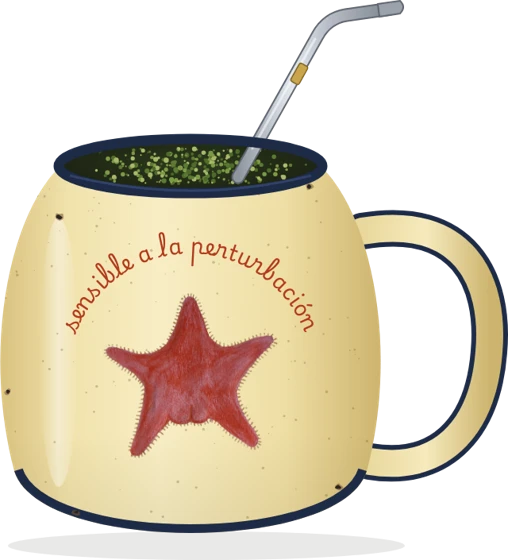
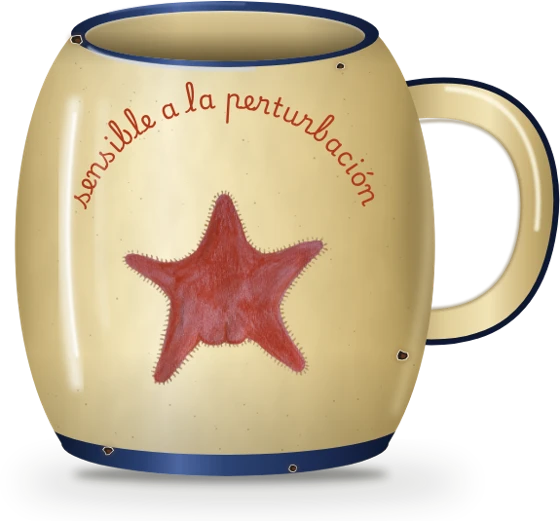
Fondo: mate más realista, sin bombilla ni yerba
Esmalte con volumen, reflejos y textura, labio y base azules,
saltaduras con óxido y sombra de contacto, sin contornos.

Claude-Session: https://claude.ai/code/session_01Qm5YFXMrmpHggq2K32ktW1

diff --git a/fondo/assets/mate-svg.html b/fondo/assets/mate-svg.html
@@ -1,86 +1,124 @@
-<svg class="zoom-svg mate-svg" viewBox="0 0 800 760" preserveAspectRatio="xMidYMid meet" xmlns="http://www.w3.org/2000/svg" aria-hidden="true">
-
+<svg class="zoom-svg mate-svg" viewBox="0 0 620 560" preserveAspectRatio="xMidYMid meet" xmlns="http://www.w3.org/2000/svg" aria-hidden="true">
 <defs>
-  <!-- Esmalte crema: más oscuro hacia los bordes, como un jarro redondo -->
-  <linearGradient id="mate-enamel" x1="0" x2="1" y1="0" y2="0">
-    <stop offset="0" stop-color="#D9C27F" />
-    <stop offset="0.18" stop-color="#F1E2AC" />
-    <stop offset="0.42" stop-color="#F8EDC4" />
-    <stop offset="0.75" stop-color="#EEDDA3" />
-    <stop offset="1" stop-color="#CDB46E" />
+  <!-- Esmalte crema: volumen de jarro redondo, luz desde arriba a la izquierda -->
+  <linearGradient id="m-body" gradientUnits="userSpaceOnUse" x1="144" x2="576" y1="0" y2="0">
+    <stop offset="0" stop-color="#A8925A"/>
+    <stop offset="0.05" stop-color="#C7B077"/>
+    <stop offset="0.16" stop-color="#E4D29E"/>
+    <stop offset="0.28" stop-color="#F3E6BC"/>
+    <stop offset="0.36" stop-color="#F9F0D3"/>
+    <stop offset="0.48" stop-color="#F2E4B8"/>
+    <stop offset="0.68" stop-color="#E3CF98"/>
+    <stop offset="0.84" stop-color="#CBB276"/>
+    <stop offset="0.94" stop-color="#B49B5F"/>
+    <stop offset="1" stop-color="#C2AA74"/>
   </linearGradient>
-  <linearGradient id="mate-base-shade" x1="0" x2="0" y1="0" y2="1">
-    <stop offset="0.6" stop-color="#6B5A2A" stop-opacity="0" />
-    <stop offset="1" stop-color="#6B5A2A" stop-opacity="0.22" />
+  <linearGradient id="m-vert" gradientUnits="userSpaceOnUse" x1="0" x2="0" y1="210" y2="664">
+    <stop offset="0" stop-color="#3B2E14" stop-opacity="0.30"/>
+    <stop offset="0.07" stop-color="#3B2E14" stop-opacity="0.06"/>
+    <stop offset="0.2" stop-color="#3B2E14" stop-opacity="0"/>
+    <stop offset="0.72" stop-color="#3B2E14" stop-opacity="0"/>
+    <stop offset="1" stop-color="#3B2E14" stop-opacity="0.32"/>
   </linearGradient>
-  <linearGradient id="mate-shine" x1="0" x2="1">
-    <stop offset="0" stop-color="#FFFFFF" stop-opacity="0" />
-    <stop offset="0.5" stop-color="#FFFFFF" stop-opacity="0.55" />
-    <stop offset="1" stop-color="#FFFFFF" stop-opacity="0" />
+  <linearGradient id="m-blue" gradientUnits="userSpaceOnUse" x1="192" x2="528" y1="0" y2="0">
+    <stop offset="0" stop-color="#0E1A33"/>
+    <stop offset="0.25" stop-color="#2A4072"/>
+    <stop offset="0.36" stop-color="#4C66A0"/>
+    <stop offset="0.5" stop-color="#2C4374"/>
+    <stop offset="0.85" stop-color="#18264A"/>
+    <stop offset="1" stop-color="#0D1730"/>
   </linearGradient>
-  <linearGradient id="mate-handle" x1="0" x2="1">
-    <stop offset="0" stop-color="#E9D79B" />
-    <stop offset="0.5" stop-color="#F6EABD" />
-    <stop offset="1" stop-color="#CDB46E" />
+  <linearGradient id="m-inside" gradientUnits="userSpaceOnUse" x1="0" x2="0" y1="176" y2="244">
+    <stop offset="0" stop-color="#E6D6A6"/>
+    <stop offset="0.45" stop-color="#CDB884"/>
+    <stop offset="0.8" stop-color="#7D6B43"/>
+    <stop offset="1" stop-color="#4E4229"/>
   </linearGradient>
-  <linearGradient id="mate-metal" x1="0" x2="1">
-    <stop offset="0" stop-color="#8E959F" />
-    <stop offset="0.35" stop-color="#E4E8EE" />
-    <stop offset="0.6" stop-color="#B6BCC6" />
-    <stop offset="1" stop-color="#7E858F" />
+  <linearGradient id="m-inside-side" gradientUnits="userSpaceOnUse" x1="202" x2="518" y1="0" y2="0">
+    <stop offset="0" stop-color="#2E2412" stop-opacity="0.35"/>
+    <stop offset="0.35" stop-color="#2E2412" stop-opacity="0"/>
+    <stop offset="0.75" stop-color="#2E2412" stop-opacity="0.05"/>
+    <stop offset="1" stop-color="#2E2412" stop-opacity="0.4"/>
   </linearGradient>
-  <radialGradient id="mate-mouth" cx="0.5" cy="0.45" r="0.6">
-    <stop offset="0" stop-color="#2E3A1C" />
-    <stop offset="1" stop-color="#1A1F12" />
-  </radialGradient>
-  <clipPath id="mate-body-clip"><path d="M 216 236 C 150 300 118 470 158 620 C 190 724 570 724 602 620 C 642 470 610 300 544 236 Z" /></clipPath>
-  <path id="mate-arc" d="M 226 500 A 154 154 0 1 1 534 500" />
+  <linearGradient id="m-handle" gradientUnits="userSpaceOnUse" x1="528" x2="698" y1="0" y2="0">
+    <stop offset="0" stop-color="#9E8752"/>
+    <stop offset="0.35" stop-color="#E2CF9A"/>
+    <stop offset="0.6" stop-color="#F1E3B6"/>
+    <stop offset="0.85" stop-color="#C9B075"/>
+    <stop offset="1" stop-color="#A68F58"/>
+  </linearGradient>
+  <filter id="m-soft" x="-50%" y="-50%" width="200%" height="200%"><feGaussianBlur stdDeviation="1.2"/></filter>
+  <filter id="m-blur4" x="-50%" y="-50%" width="200%" height="200%"><feGaussianBlur stdDeviation="4"/></filter>
+  <filter id="m-blur10" x="-50%" y="-50%" width="200%" height="200%"><feGaussianBlur stdDeviation="10"/></filter>
+  <filter id="m-blur18" x="-50%" y="-50%" width="200%" height="200%"><feGaussianBlur stdDeviation="18"/></filter>
+  <!-- Textura muy sutil del esmalte (ondulado y poros) -->
+  <filter id="m-grain" x="0" y="0" width="100%" height="100%">
+    <feTurbulence type="fractalNoise" baseFrequency="0.035 0.02" numOctaves="3" seed="4" result="n"/>
+    <feColorMatrix in="n" type="matrix" values="0 0 0 0 0.25  0 0 0 0 0.19  0 0 0 0 0.08  0 0 0 0.55 -0.2"/>
+  </filter>
+  <clipPath id="m-body-clip"><path d="M 204 210 C 132 290 122 520 192 630 A 168 34 0 0 0 528 630 C 598 520 588 290 516 210 Z"/></clipPath>
+  <path id="mate-arc" d="M 214 470 A 150 150 0 1 1 506 470"/>
 </defs>
+<g transform="translate(-110 -150)">
 
-<!-- Sombra en la mesa -->
-<ellipse cx="400" cy="714" rx="250" ry="18" fill="#2A2622" opacity="0.10" />
+<!-- Sombra de contacto sobre la mesa -->
+<ellipse cx="378" cy="670" rx="228" ry="22" fill="#1E1A14" opacity="0.16" filter="url(#m-blur18)"/>
+<ellipse cx="366" cy="662" rx="162" ry="9" fill="#1E1A14" opacity="0.45" filter="url(#m-blur4)"/>
 
-<!-- Asa: esmalte crema con borde azul, como el jarro -->
-<path d="M 596 318 C 724 296 764 380 756 470 C 748 572 690 622 606 608" fill="none" stroke="#1E2B47" stroke-width="46" stroke-linecap="round" />
-<path d="M 596 318 C 724 296 764 380 756 470 C 748 572 690 622 606 608" fill="none" stroke="url(#mate-handle)" stroke-width="34" stroke-linecap="round" />
+<!-- Asa -->
+<g>
+  <path d="M 542 262 C 676 236 710 330 698 410 C 686 492 640 538 538 524
+           L 542 492 C 620 500 654 466 662 408 C 670 346 648 284 546 298 Z" fill="url(#m-handle)"/>
+  <!-- reflejo a lo largo del asa -->
+  <path d="M 588 266 C 666 270 688 340 680 410" fill="none" stroke="#FFFBEA" stroke-opacity="0.8" stroke-width="5" stroke-linecap="round" filter="url(#m-soft)"/>
+  <!-- borde interno en sombra -->
+  <path d="M 558 300 C 648 288 670 346 662 408 C 654 466 620 498 552 492" fill="none" stroke="#6E5C34" stroke-opacity="0.45" stroke-width="4" filter="url(#m-soft)"/>
+  <!-- borde azul del asa -->
+  <path d="M 542 262 C 676 236 710 330 698 410 C 686 492 640 538 538 524" fill="none" stroke="url(#m-blue)" stroke-width="6"/>
+</g>
 
 <!-- Cuerpo -->
-<path d="M 216 236 C 150 300 118 470 158 620 C 190 724 570 724 602 620 C 642 470 610 300 544 236 Z" fill="url(#mate-enamel)" />
-<g clip-path="url(#mate-body-clip)">
-  <rect x="120" y="200" width="520" height="620" fill="url(#mate-base-shade)" />
-  <!-- brillo del esmalte -->
-  <ellipse cx="214" cy="470" rx="24" ry="170" fill="url(#mate-shine)" opacity="0.8" />
-  <g fill="#7A6A3A" opacity="0.35"><circle cx="397" cy="249" r="1.1"/><circle cx="223.4" cy="241.9" r="1.6"/><circle cx="217.9" cy="467.3" r="1.5"/><circle cx="413.8" cy="396.5" r="1.2"/><circle cx="413.3" cy="616.5" r="0.7"/><circle cx="415.8" cy="359.3" r="0.9"/><circle cx="523.9" cy="483.7" r="1.3"/><circle cx="517.6" cy="678" r="1.1"/><circle cx="442.4" cy="482.7" r="1.2"/><circle cx="483.3" cy="457.1" r="1.2"/><circle cx="373.8" cy="691.9" r="1.4"/><circle cx="577" cy="692.2" r="0.9"/><circle cx="415.4" cy="692.8" r="1.6"/><circle cx="199.9" cy="298.4" r="1.1"/><circle cx="167" cy="355.5" r="0.7"/><circle cx="471.4" cy="616.3" r="1.7"/><circle cx="208.8" cy="583.7" r="1.4"/><circle cx="202.9" cy="663.8" r="1.8"/><circle cx="242" cy="697.2" r="1.1"/><circle cx="378.5" cy="715.1" r="1.6"/><circle cx="212.3" cy="447.1" r="1.2"/><circle cx="302.9" cy="334" r="1"/><circle cx="498.3" cy="249.4" r="1.3"/><circle cx="354.6" cy="248.7" r="1"/><circle cx="448.2" cy="485.9" r="0.7"/><circle cx="632.4" cy="618.4" r="1.8"/><circle cx="183.4" cy="367.5" r="0.6"/><circle cx="527.3" cy="369.8" r="0.8"/><circle cx="345.3" cy="677.5" r="1.6"/><circle cx="261.9" cy="311.7" r="1.7"/><circle cx="421" cy="576.2" r="0.7"/><circle cx="159.3" cy="570.3" r="1.1"/><circle cx="166.9" cy="690.4" r="1.4"/><circle cx="538.8" cy="280.2" r="1.6"/><circle cx="164" cy="654.1" r="1.1"/><circle cx="303" cy="505.5" r="1.7"/><circle cx="266.6" cy="302" r="1.2"/><circle cx="251.6" cy="292.5" r="0.8"/><circle cx="155.7" cy="336.8" r="1"/><circle cx="285.6" cy="604.6" r="0.9"/><circle cx="385" cy="325.4" r="1"/><circle cx="139.3" cy="360.2" r="0.6"/><circle cx="503.9" cy="504.5" r="0.8"/><circle cx="372.1" cy="688.6" r="0.7"/><circle cx="547.6" cy="447.4" r="1.2"/><circle cx="555.7" cy="428.7" r="1.2"/><circle cx="480.7" cy="711.6" r="1"/><circle cx="554.5" cy="579.2" r="1.4"/><circle cx="336.4" cy="406.8" r="0.7"/><circle cx="196.2" cy="273.9" r="1.5"/><circle cx="260.4" cy="318.4" r="0.7"/><circle cx="559" cy="657.9" r="1.4"/><circle cx="273.8" cy="356.3" r="1"/><circle cx="364.3" cy="315.6" r="1.1"/><circle cx="264.3" cy="701.7" r="1.8"/><circle cx="409" cy="357.3" r="1.8"/><circle cx="287.9" cy="411.2" r="0.6"/><circle cx="324.6" cy="467.8" r="1.2"/><circle cx="232.5" cy="482.3" r="0.6"/><circle cx="264.7" cy="283.1" r="1.1"/><circle cx="151.3" cy="250.8" r="1"/><circle cx="248.7" cy="521.1" r="1.2"/><circle cx="512.8" cy="555.6" r="1.5"/><circle cx="578.3" cy="427" r="1"/><circle cx="632.2" cy="311.7" r="1.5"/><circle cx="458" cy="261" r="1.6"/><circle cx="584.9" cy="541.1" r="1.5"/><circle cx="544.2" cy="306.9" r="1.2"/><circle cx="387.2" cy="640.8" r="1.6"/><circle cx="551.5" cy="520.3" r="1.7"/><circle cx="478.3" cy="572.8" r="0.9"/><circle cx="145.9" cy="303.9" r="1"/><circle cx="183.5" cy="641.2" r="1.3"/><circle cx="450.2" cy="540.6" r="1.4"/><circle cx="379.5" cy="241.6" r="1.6"/><circle cx="511.6" cy="481.4" r="1.2"/><circle cx="466.2" cy="271.7" r="1.5"/><circle cx="258.6" cy="275.7" r="0.9"/><circle cx="502" cy="338.5" r="1.5"/><circle cx="627.6" cy="477.1" r="1.1"/><circle cx="374.3" cy="568.2" r="1.5"/><circle cx="444.7" cy="548.5" r="0.7"/><circle cx="205.2" cy="361.9" r="1.5"/><circle cx="285.3" cy="512.5" r="0.6"/><circle cx="160.9" cy="369" r="1.4"/><circle cx="483" cy="564.3" r="0.9"/><circle cx="393.4" cy="463" r="1.2"/><circle cx="190.4" cy="669" r="0.8"/><circle cx="628.8" cy="689.4" r="0.6"/><circle cx="364.1" cy="633.6" r="1.8"/><circle cx="359.2" cy="369" r="0.9"/><circle cx="612.2" cy="341.1" r="1.3"/><circle cx="202.3" cy="491.6" r="1.7"/><circle cx="197.6" cy="633.7" r="1.2"/><circle cx="582.3" cy="577.6" r="0.9"/><circle cx="587.8" cy="473.3" r="0.6"/><circle cx="131.8" cy="476" r="1.1"/><circle cx="284" cy="307.5" r="1"/><circle cx="291.2" cy="643.3" r="0.6"/><circle cx="512.9" cy="642.8" r="0.7"/><circle cx="602.5" cy="582.3" r="1.7"/><circle cx="277.8" cy="418.7" r="1.1"/><circle cx="639.4" cy="522.8" r="1"/><circle cx="348.3" cy="372.1" r="0.7"/><circle cx="181.9" cy="640.6" r="0.9"/><circle cx="607.2" cy="359.7" r="0.9"/><circle cx="390.6" cy="331.1" r="1"/><circle cx="617.6" cy="664.4" r="1.6"/><circle cx="451.8" cy="678.4" r="1.7"/><circle cx="410.1" cy="585.4" r="0.7"/><circle cx="503.5" cy="456.4" r="1.5"/><circle cx="458.7" cy="377.4" r="0.7"/><circle cx="602.7" cy="301.1" r="1.2"/><circle cx="305.3" cy="382.9" r="1.5"/><circle cx="627.9" cy="364.9" r="1.4"/><circle cx="283.4" cy="507.5" r="1.1"/><circle cx="215.3" cy="317.6" r="0.8"/><circle cx="592" cy="478.6" r="0.9"/><circle cx="592.2" cy="718.3" r="1.1"/><circle cx="201.2" cy="332.4" r="0.7"/><circle cx="304.4" cy="283.7" r="0.9"/><circle cx="261.8" cy="513.4" r="1.7"/><circle cx="512.3" cy="438.1" r="1.1"/><circle cx="397.3" cy="420.9" r="1"/><circle cx="161.7" cy="373.2" r="1.8"/><circle cx="194.2" cy="481.6" r="1.4"/><circle cx="570.1" cy="343.7" r="0.9"/><circle cx="256.7" cy="431.9" r="1.1"/><circle cx="616.5" cy="647.4" r="1.6"/><circle cx="141.1" cy="255.5" r="1.5"/><circle cx="586.8" cy="467.2" r="1.3"/><circle cx="130.1" cy="427.9" r="1.7"/><circle cx="551.1" cy="650.6" r="1.8"/><circle cx="256.7" cy="292.3" r="0.8"/><circle cx="396.4" cy="567.4" r="1.7"/><circle cx="498.1" cy="550.7" r="1.5"/><circle cx="363.2" cy="504.7" r="0.6"/><circle cx="529" cy="351.6" r="1.7"/><circle cx="459.2" cy="385.8" r="0.8"/><circle cx="258.4" cy="545.4" r="1.4"/><circle cx="187.2" cy="273.8" r="1.2"/><circle cx="427.3" cy="426.3" r="0.9"/><circle cx="436.5" cy="245" r="1"/><circle cx="365" cy="700.3" r="1.4"/><circle cx="580.7" cy="468.1" r="0.9"/><circle cx="256" cy="701.1" r="1.4"/><circle cx="286.8" cy="250.5" r="1.2"/><circle cx="474" cy="441.6" r="0.9"/><circle cx="470.4" cy="684.1" r="0.9"/><circle cx="147.4" cy="402.3" r="1.1"/><circle cx="478.1" cy="335.1" r="1.6"/><circle cx="507" cy="482.3" r="0.8"/><circle cx="624.6" cy="389.6" r="1.6"/><circle cx="247.7" cy="346.3" r="1.5"/><circle cx="280.4" cy="696.9" r="1.2"/><circle cx="225.5" cy="347.2" r="1.1"/><circle cx="469.3" cy="695.4" r="0.8"/><circle cx="330.7" cy="342.2" r="1.8"/><circle cx="202.4" cy="264.9" r="0.7"/><circle cx="330.6" cy="671.1" r="1.7"/></g>
+<path d="M 204 210 C 132 290 122 520 192 630 A 168 34 0 0 0 528 630 C 598 520 588 290 516 210 Z" fill="url(#m-body)"/>
+<g clip-path="url(#m-body-clip)">
+  <rect x="100" y="150" width="560" height="560" filter="url(#m-grain)" opacity="0.28"/>
+  <rect x="100" y="150" width="560" height="560" fill="url(#m-vert)"/>
+  <!-- sombra que deja el asa sobre el cuerpo -->
+  <ellipse cx="568" cy="395" rx="26" ry="150" fill="#3B2E14" opacity="0.22" filter="url(#m-blur10)"/>
+  <!-- pintitas del esmalte -->
+  <g fill="#5A4A2A" opacity="0.28"><circle cx="289.5" cy="279.1" r="0.9"/><circle cx="189.0" cy="442.7" r="0.7"/><circle cx="183.2" cy="430.7" r="0.4"/><circle cx="333.5" cy="244.7" r="0.5"/><circle cx="329.8" cy="566.4" r="0.5"/><circle cx="249.3" cy="481.7" r="1.1"/><circle cx="390.8" cy="383.6" r="1.1"/><circle cx="178.6" cy="579.8" r="0.6"/><circle cx="217.7" cy="265.1" r="0.6"/><circle cx="486.5" cy="291.8" r="0.8"/><circle cx="415.6" cy="373.3" r="0.8"/><circle cx="185.1" cy="240.3" r="0.5"/><circle cx="432.2" cy="396.7" r="0.6"/><circle cx="394.2" cy="407.6" r="0.6"/><circle cx="477.8" cy="512.1" r="0.6"/><circle cx="389.8" cy="438.2" r="1.0"/><circle cx="451.8" cy="337.4" r="1.1"/><circle cx="207.2" cy="392.7" r="0.9"/><circle cx="220.8" cy="422.8" r="0.4"/><circle cx="427.3" cy="539.9" r="0.8"/><circle cx="510.2" cy="348.3" r="0.9"/><circle cx="397.7" cy="461.5" r="0.7"/><circle cx="496.0" cy="616.5" r="0.7"/><circle cx="425.7" cy="240.8" r="0.9"/><circle cx="418.9" cy="637.1" r="1.0"/><circle cx="273.8" cy="379.0" r="0.9"/><circle cx="169.0" cy="411.2" r="0.5"/><circle cx="206.8" cy="240.1" r="0.9"/><circle cx="211.7" cy="320.2" r="0.7"/><circle cx="508.6" cy="249.2" r="0.7"/><circle cx="379.8" cy="590.4" r="1.0"/><circle cx="505.6" cy="333.3" r="0.7"/><circle cx="303.5" cy="590.8" r="1.1"/><circle cx="220.4" cy="289.9" r="0.6"/><circle cx="253.3" cy="421.1" r="0.8"/><circle cx="265.1" cy="216.7" r="0.7"/><circle cx="307.7" cy="455.7" r="1.1"/><circle cx="436.2" cy="434.1" r="0.8"/><circle cx="430.5" cy="237.9" r="1.0"/><circle cx="472.0" cy="586.7" r="1.0"/><circle cx="317.0" cy="384.6" r="0.5"/><circle cx="413.7" cy="241.5" r="0.4"/><circle cx="243.5" cy="284.0" r="0.6"/><circle cx="181.0" cy="215.1" r="0.5"/><circle cx="200.6" cy="369.5" r="0.4"/><circle cx="509.7" cy="476.0" r="0.5"/><circle cx="260.9" cy="362.6" r="0.7"/><circle cx="209.1" cy="575.8" r="1.1"/><circle cx="346.4" cy="420.6" r="0.5"/><circle cx="200.9" cy="360.6" r="0.6"/><circle cx="491.5" cy="283.6" r="0.4"/><circle cx="540.4" cy="439.5" r="0.5"/><circle cx="377.3" cy="226.5" r="0.8"/><circle cx="551.4" cy="581.9" r="0.9"/><circle cx="264.4" cy="370.8" r="0.5"/><circle cx="468.8" cy="441.4" r="0.9"/><circle cx="291.9" cy="309.8" r="1.0"/><circle cx="554.0" cy="577.4" r="1.0"/><circle cx="487.3" cy="529.4" r="0.6"/><circle cx="367.1" cy="366.1" r="0.4"/><circle cx="171.2" cy="333.8" r="0.6"/><circle cx="437.0" cy="621.5" r="0.7"/><circle cx="534.8" cy="634.9" r="1.1"/><circle cx="305.9" cy="308.7" r="0.6"/><circle cx="238.7" cy="301.9" r="0.8"/><circle cx="520.1" cy="572.2" r="0.7"/><circle cx="421.2" cy="554.8" r="0.5"/><circle cx="424.2" cy="601.7" r="0.9"/><circle cx="460.1" cy="418.2" r="0.5"/><circle cx="475.7" cy="356.3" r="1.0"/><circle cx="548.7" cy="383.2" r="0.7"/><circle cx="538.7" cy="523.0" r="0.5"/><circle cx="210.8" cy="279.2" r="1.0"/><circle cx="482.6" cy="277.1" r="1.0"/><circle cx="552.1" cy="494.3" r="0.6"/><circle cx="379.5" cy="270.7" r="0.4"/><circle cx="548.4" cy="491.1" r="0.8"/><circle cx="533.4" cy="399.4" r="1.0"/><circle cx="490.5" cy="304.7" r="0.6"/><circle cx="277.2" cy="317.2" r="0.8"/><circle cx="263.7" cy="393.1" r="0.5"/><circle cx="524.0" cy="365.4" r="0.7"/><circle cx="393.3" cy="599.3" r="0.7"/><circle cx="527.1" cy="428.2" r="0.8"/><circle cx="369.4" cy="222.9" r="0.7"/><circle cx="233.2" cy="216.7" r="1.0"/><circle cx="228.9" cy="416.2" r="0.9"/><circle cx="382.6" cy="353.5" r="0.8"/><circle cx="382.2" cy="548.3" r="0.5"/><circle cx="384.1" cy="320.6" r="0.6"/><circle cx="468.9" cy="430.8" r="0.8"/><circle cx="464.0" cy="602.8" r="0.7"/><circle cx="405.0" cy="429.9" r="0.8"/><circle cx="437.1" cy="407.2" r="0.8"/><circle cx="351.2" cy="615.1" r="0.9"/><circle cx="510.6" cy="615.4" r="0.6"/><circle cx="383.8" cy="615.9" r="1.0"/><circle cx="214.9" cy="266.7" r="0.7"/><circle cx="189.0" cy="317.3" r="0.5"/><circle cx="427.8" cy="548.2" r="1.0"/><circle cx="221.8" cy="519.4" r="0.9"/><circle cx="217.2" cy="590.2" r="1.1"/><circle cx="247.8" cy="619.8" r="0.7"/><circle cx="354.9" cy="635.7" r="1.0"/><circle cx="224.6" cy="398.4" r="0.8"/><circle cx="295.6" cy="298.2" r="0.6"/><circle cx="448.9" cy="223.3" r="0.8"/><circle cx="336.2" cy="222.7" r="0.6"/><circle cx="409.6" cy="432.7" r="0.4"/><circle cx="554.0" cy="550.1" r="1.1"/><circle cx="201.9" cy="327.9" r="0.4"/><circle cx="471.6" cy="329.9" r="0.5"/><circle cx="328.9" cy="602.4" r="1.0"/><circle cx="263.4" cy="278.5" r="1.0"/><circle cx="388.2" cy="512.7" r="0.5"/><circle cx="183.0" cy="507.5" r="0.7"/><circle cx="189.0" cy="613.8" r="0.8"/><circle cx="480.7" cy="250.6" r="1.0"/><circle cx="186.6" cy="581.7" r="0.7"/><circle cx="295.7" cy="450.1" r="1.0"/><circle cx="267.1" cy="269.9" r="0.8"/><circle cx="255.4" cy="261.5" r="0.5"/><circle cx="180.2" cy="300.8" r="0.6"/><circle cx="282.0" cy="537.8" r="0.6"/><circle cx="360.0" cy="290.6" r="0.6"/><circle cx="167.3" cy="321.4" r="0.4"/><circle cx="453.2" cy="449.2" r="0.5"/><circle cx="349.9" cy="612.2" r="0.5"/><circle cx="487.6" cy="398.7" r="0.7"/><circle cx="493.8" cy="382.1" r="0.8"/><circle cx="435.1" cy="632.5" r="0.6"/><circle cx="492.9" cy="515.4" r="0.8"/><circle cx="321.9" cy="362.7" r="0.4"/><circle cx="211.9" cy="245.1" r="0.9"/><circle cx="262.2" cy="284.4" r="0.5"/><circle cx="496.5" cy="585.0" r="0.9"/><circle cx="272.8" cy="317.9" r="0.6"/><circle cx="343.8" cy="282.0" r="0.7"/><circle cx="265.3" cy="623.8" r="1.1"/><circle cx="378.8" cy="318.9" r="1.1"/></g>
+
+  <!-- Calcomanía: Patricio y la frase, bajo el vidriado -->
+  <image href="fondo/assets/patricio-estrella.webp" x="252" y="368" width="216" height="205" style="mix-blend-mode: multiply" opacity="0.96"/>
+  <text class="mate-phrase" style="mix-blend-mode: multiply"><textPath href="#mate-arc" startOffset="50%">sensible a la perturbación</textPath></text>
+
+  <!-- Banda azul de la base -->
+  <path d="M 174 606 A 186 36 0 0 0 546 606 L 640 720 L 80 720 Z" fill="url(#m-blue)"/>
+  <path d="M 196 638 A 168 34 0 0 0 330 674" fill="none" stroke="#9FB2DA" stroke-opacity="0.55" stroke-width="3" filter="url(#m-soft)"/>
+
+  <!-- Brillos del vidriado: reflejo de ventana -->
+  <path d="M 206 280 C 192 360 192 470 208 570" fill="none" stroke="#FFFFFF" stroke-opacity="0.75" stroke-width="12" stroke-linecap="round" filter="url(#m-blur4)"/>
+  <path d="M 206 292 C 196 370 196 460 208 540" fill="none" stroke="#FFFFFF" stroke-opacity="0.9" stroke-width="3.5" stroke-linecap="round" filter="url(#m-soft)"/>
+  <path d="M 236 280 C 228 350 228 440 238 510" fill="none" stroke="#FFFFFF" stroke-opacity="0.35" stroke-width="7" stroke-linecap="round" filter="url(#m-blur4)"/>
+  <!-- luz rebotada en el borde derecho -->
+  <path d="M 562 300 C 576 380 574 480 534 600" fill="none" stroke="#F4E6BE" stroke-opacity="0.5" stroke-width="6" filter="url(#m-blur4)"/>
 </g>
 
-<!-- Borde inferior azul -->
-<path d="M 158 620 C 190 724 570 724 602 620" fill="none" stroke="#1E2B47" stroke-width="22" clip-path="url(#mate-body-clip)" />
+<!-- Boca: interior esmaltado y labio azul enrollado -->
+<ellipse cx="360" cy="212" rx="144" ry="26" fill="url(#m-inside)"/>
+<ellipse cx="360" cy="212" rx="144" ry="26" fill="url(#m-inside-side)"/>
+<path d="M 216 212 A 144 26 0 0 1 504 212" fill="none" stroke="#FFFFFF" stroke-opacity="0.35" stroke-width="3" filter="url(#m-soft)"/>
+<path fill-rule="evenodd" fill="url(#m-blue)" d="
+  M 202 210 A 158 34 0 1 0 518 210 A 158 34 0 1 0 202 210 Z
+  M 216 212 A 144 26 0 1 0 504 212 A 144 26 0 1 0 216 212 Z"/>
+<!-- reflejo sobre el labio -->
+<path d="M 220 224 A 148 30 0 0 0 390 246" fill="none" stroke="#C9D6F2" stroke-opacity="0.75" stroke-width="3" stroke-linecap="round" filter="url(#m-soft)"/>
+<path d="M 242 188 A 138 26 0 0 1 380 179" fill="none" stroke="#9FB2DA" stroke-opacity="0.45" stroke-width="2" stroke-linecap="round" filter="url(#m-soft)"/>
 
-<!-- Boca: borde azul, interior oscuro y la yerba -->
-<ellipse cx="380" cy="236" rx="166" ry="34" fill="url(#mate-mouth)" />
-<g clip-path="url(#mate-mouth-clip)"><circle cx="449.7" cy="255" r="1.7" fill="#7C9A45"/><circle cx="413.1" cy="234.6" r="1.7" fill="#5C7A33"/><circle cx="481" cy="233.5" r="1.2" fill="#4E6B2A"/><circle cx="340.8" cy="256" r="1.3" fill="#7C9A45"/><circle cx="348.5" cy="227.6" r="2.8" fill="#4E6B2A"/><circle cx="287" cy="230.4" r="3" fill="#7C9A45"/><circle cx="334.5" cy="234.9" r="2.4" fill="#7C9A45"/><circle cx="461.9" cy="215.8" r="1.1" fill="#4E6B2A"/><circle cx="402.7" cy="222.6" r="1.1" fill="#A9B86A"/><circle cx="356.2" cy="256" r="1.1" fill="#A9B86A"/><circle cx="449.4" cy="245.7" r="2.3" fill="#4E6B2A"/><circle cx="311" cy="234.9" r="3.1" fill="#5C7A33"/><circle cx="463.1" cy="249.9" r="1.3" fill="#5C7A33"/><circle cx="294.8" cy="246.5" r="2.8" fill="#7C9A45"/><circle cx="398.4" cy="228.1" r="1.8" fill="#4E6B2A"/><circle cx="382.2" cy="221" r="1.9" fill="#4E6B2A"/><circle cx="375.9" cy="221.1" r="1.9" fill="#4E6B2A"/><circle cx="455.3" cy="217.7" r="1.2" fill="#5C7A33"/><circle cx="524.5" cy="221.6" r="1.3" fill="#5C7A33"/><circle cx="409.6" cy="246.9" r="2.9" fill="#4E6B2A"/><circle cx="425.5" cy="226.3" r="1.6" fill="#A9B86A"/><circle cx="411.9" cy="224.9" r="1.5" fill="#7C9A45"/><circle cx="317.5" cy="222.3" r="1.1" fill="#A9B86A"/><circle cx="485.2" cy="224.2" r="2.8" fill="#5C7A33"/><circle cx="427.1" cy="234.9" r="2.8" fill="#5C7A33"/><circle cx="405" cy="226.9" r="1.3" fill="#7C9A45"/><circle cx="407.4" cy="222.5" r="1.2" fill="#7C9A45"/><circle cx="372.2" cy="248.2" r="3.1" fill="#4E6B2A"/><circle cx="414.7" cy="229.4" r="1.1" fill="#A9B86A"/><circle cx="331.4" cy="225.2" r="2.3" fill="#7C9A45"/><circle cx="465.4" cy="232" r="1.8" fill="#A9B86A"/><circle cx="357.5" cy="235.8" r="2.1" fill="#5C7A33"/><circle cx="304.8" cy="238.2" r="2.4" fill="#4E6B2A"/><circle cx="409" cy="225.9" r="3.2" fill="#A9B86A"/><circle cx="374.4" cy="246.8" r="2.9" fill="#5C7A33"/><circle cx="356.7" cy="257.9" r="1.8" fill="#7C9A45"/><circle cx="359.1" cy="255.4" r="2" fill="#7C9A45"/><circle cx="359.3" cy="231.9" r="2.9" fill="#5C7A33"/><circle cx="409.5" cy="216.3" r="1.3" fill="#5C7A33"/><circle cx="282.7" cy="230.3" r="2.1" fill="#7C9A45"/><circle cx="361.7" cy="221.6" r="1.1" fill="#5C7A33"/><circle cx="377.4" cy="256.5" r="1.4" fill="#7C9A45"/><circle cx="401.1" cy="254.2" r="1.7" fill="#5C7A33"/><circle cx="275.3" cy="244.3" r="3" fill="#7C9A45"/><circle cx="408.5" cy="222.6" r="2" fill="#7C9A45"/><circle cx="246.8" cy="220.9" r="1.8" fill="#7C9A45"/><circle cx="315.4" cy="253.5" r="1.1" fill="#4E6B2A"/><circle cx="408.7" cy="231.2" r="2" fill="#A9B86A"/><circle cx="404.8" cy="225" r="1.9" fill="#A9B86A"/><circle cx="369.4" cy="215" r="2.4" fill="#5C7A33"/><circle cx="373" cy="241.2" r="2.8" fill="#7C9A45"/><circle cx="438.9" cy="217" r="1.8" fill="#A9B86A"/><circle cx="298.6" cy="236.4" r="1.1" fill="#7C9A45"/><circle cx="272.7" cy="248.2" r="2.1" fill="#4E6B2A"/><circle cx="451.5" cy="242.7" r="2.7" fill="#4E6B2A"/><circle cx="486.9" cy="246.2" r="2.8" fill="#7C9A45"/><circle cx="276" cy="226.7" r="2.8" fill="#7C9A45"/><circle cx="427.4" cy="223.7" r="2.8" fill="#A9B86A"/><circle cx="283.1" cy="226.1" r="2.8" fill="#7C9A45"/><circle cx="307.6" cy="235.1" r="2.3" fill="#7C9A45"/><circle cx="369.6" cy="222" r="1.4" fill="#A9B86A"/><circle cx="431" cy="221.4" r="2.7" fill="#4E6B2A"/><circle cx="397.7" cy="251.8" r="3.1" fill="#5C7A33"/><circle cx="392.6" cy="252.8" r="1.2" fill="#5C7A33"/><circle cx="423.5" cy="230.5" r="1.8" fill="#7C9A45"/><circle cx="343.3" cy="233.5" r="1.4" fill="#4E6B2A"/><circle cx="336.1" cy="227.6" r="3.1" fill="#A9B86A"/><circle cx="440.4" cy="223.8" r="1.6" fill="#5C7A33"/><circle cx="365.1" cy="216.1" r="2.1" fill="#4E6B2A"/><circle cx="372.7" cy="229.6" r="1.2" fill="#A9B86A"/><circle cx="386.6" cy="227.3" r="1.3" fill="#A9B86A"/><circle cx="405.6" cy="219.9" r="3.1" fill="#7C9A45"/><circle cx="421.8" cy="216.8" r="1.3" fill="#A9B86A"/><circle cx="364.9" cy="214.5" r="2.4" fill="#A9B86A"/><circle cx="401.6" cy="240.5" r="2.1" fill="#5C7A33"/><circle cx="308.3" cy="215.9" r="2.2" fill="#5C7A33"/><circle cx="342.4" cy="254.1" r="1.2" fill="#7C9A45"/><circle cx="332.1" cy="240.8" r="2.1" fill="#5C7A33"/><circle cx="419.3" cy="227.6" r="1.7" fill="#4E6B2A"/><circle cx="506.1" cy="235" r="2.2" fill="#5C7A33"/><circle cx="469.2" cy="234.5" r="2.6" fill="#5C7A33"/><circle cx="282.8" cy="225.5" r="2.4" fill="#4E6B2A"/><circle cx="337.3" cy="244.6" r="2.9" fill="#4E6B2A"/><circle cx="327.8" cy="233.2" r="2.7" fill="#A9B86A"/><circle cx="320.9" cy="253.3" r="1.2" fill="#4E6B2A"/><circle cx="285.8" cy="251" r="1.4" fill="#7C9A45"/><circle cx="422.2" cy="252.7" r="1.7" fill="#7C9A45"/><circle cx="346.6" cy="254.6" r="3.2" fill="#5C7A33"/><circle cx="373.9" cy="214.3" r="1.1" fill="#7C9A45"/><circle cx="391.7" cy="223.3" r="2.4" fill="#4E6B2A"/><circle cx="388.1" cy="215.4" r="1.2" fill="#7C9A45"/><circle cx="362.5" cy="215.3" r="1.1" fill="#4E6B2A"/><circle cx="430.7" cy="216.9" r="2.3" fill="#A9B86A"/><circle cx="291.9" cy="237.5" r="2.5" fill="#5C7A33"/><circle cx="326.5" cy="218.9" r="1.1" fill="#4E6B2A"/><circle cx="457.5" cy="226.6" r="1.2" fill="#4E6B2A"/><circle cx="450.4" cy="227" r="1.7" fill="#A9B86A"/><circle cx="307.2" cy="226.4" r="2.6" fill="#A9B86A"/><circle cx="488" cy="240.5" r="2" fill="#A9B86A"/><circle cx="386.2" cy="232.2" r="2" fill="#4E6B2A"/><circle cx="341.4" cy="237.7" r="1.5" fill="#4E6B2A"/><circle cx="392" cy="233.2" r="2.2" fill="#A9B86A"/><circle cx="457.8" cy="214.2" r="2.1" fill="#5C7A33"/><circle cx="433.2" cy="256.6" r="2.3" fill="#A9B86A"/><circle cx="389.3" cy="249.9" r="3.1" fill="#7C9A45"/><circle cx="379.8" cy="242" r="1.2" fill="#4E6B2A"/><circle cx="402.9" cy="231.7" r="1.9" fill="#4E6B2A"/><circle cx="361.2" cy="230.4" r="1.7" fill="#5C7A33"/><circle cx="465.2" cy="230.7" r="2.9" fill="#7C9A45"/><circle cx="427.4" cy="240.1" r="2.5" fill="#4E6B2A"/><circle cx="354" cy="220.8" r="2.9" fill="#A9B86A"/><circle cx="314.3" cy="248" r="2.3" fill="#7C9A45"/><circle cx="340.1" cy="244.6" r="2.1" fill="#A9B86A"/><circle cx="330.1" cy="251.1" r="1.3" fill="#7C9A45"/><circle cx="501.1" cy="240.5" r="1.8" fill="#7C9A45"/><circle cx="357.6" cy="256.9" r="2.6" fill="#4E6B2A"/><circle cx="298.4" cy="222.6" r="1.3" fill="#7C9A45"/><circle cx="455.8" cy="233.1" r="1.4" fill="#4E6B2A"/><circle cx="318.1" cy="234.4" r="1" fill="#5C7A33"/><circle cx="421.1" cy="241.8" r="2" fill="#7C9A45"/><circle cx="317.4" cy="214.2" r="1.5" fill="#5C7A33"/><circle cx="426.3" cy="242.5" r="2.9" fill="#7C9A45"/><circle cx="423.2" cy="234" r="1.7" fill="#4E6B2A"/><circle cx="438.3" cy="231.6" r="2.6" fill="#7C9A45"/><circle cx="331.2" cy="234" r="2.4" fill="#5C7A33"/><circle cx="384.5" cy="252.4" r="3" fill="#A9B86A"/><circle cx="432" cy="235.6" r="3.1" fill="#4E6B2A"/><circle cx="345.2" cy="245.5" r="3.1" fill="#7C9A45"/><circle cx="381.8" cy="239.3" r="2.2" fill="#5C7A33"/><circle cx="382.9" cy="250.5" r="2.1" fill="#5C7A33"/><circle cx="429.1" cy="257.6" r="1.4" fill="#4E6B2A"/><circle cx="433.9" cy="242.1" r="1.6" fill="#5C7A33"/><circle cx="376.5" cy="232.4" r="1.9" fill="#A9B86A"/><circle cx="388" cy="227.4" r="1.9" fill="#7C9A45"/><circle cx="525.3" cy="234.3" r="1.4" fill="#4E6B2A"/><circle cx="454" cy="234.6" r="2.2" fill="#7C9A45"/><circle cx="416.1" cy="243.3" r="2.8" fill="#5C7A33"/><circle cx="374.8" cy="238.1" r="1.3" fill="#5C7A33"/><circle cx="339.8" cy="225.8" r="1.8" fill="#A9B86A"/><circle cx="499.4" cy="235.2" r="2.8" fill="#A9B86A"/><circle cx="345.5" cy="228.1" r="2.1" fill="#4E6B2A"/><circle cx="408.8" cy="254.9" r="2.9" fill="#4E6B2A"/><circle cx="286.5" cy="228.3" r="3.1" fill="#A9B86A"/><circle cx="384.9" cy="214.5" r="3.1" fill="#A9B86A"/><circle cx="356.1" cy="220.3" r="1.5" fill="#5C7A33"/><circle cx="362" cy="253.8" r="2.7" fill="#7C9A45"/><circle cx="407.3" cy="257" r="1.2" fill="#A9B86A"/><circle cx="304.4" cy="237.4" r="2.6" fill="#5C7A33"/><circle cx="397.6" cy="219.2" r="1.9" fill="#7C9A45"/><circle cx="374" cy="235.3" r="3" fill="#5C7A33"/><circle cx="349.2" cy="240.4" r="2.6" fill="#7C9A45"/><circle cx="449.9" cy="238.8" r="2.5" fill="#5C7A33"/><circle cx="355.7" cy="256.3" r="1.2" fill="#A9B86A"/><circle cx="386.9" cy="240.8" r="2.5" fill="#A9B86A"/><circle cx="408.4" cy="235.3" r="2.7" fill="#7C9A45"/><circle cx="261.5" cy="241.5" r="1.7" fill="#A9B86A"/><circle cx="338" cy="238.4" r="3" fill="#A9B86A"/><circle cx="367.4" cy="238.4" r="2.8" fill="#A9B86A"/><circle cx="349.5" cy="228.7" r="3.2" fill="#A9B86A"/><circle cx="495.3" cy="248.8" r="1.7" fill="#A9B86A"/><circle cx="402.8" cy="256.8" r="1.2" fill="#4E6B2A"/><circle cx="357.4" cy="231.9" r="2.3" fill="#5C7A33"/><circle cx="375.3" cy="222.4" r="3" fill="#4E6B2A"/><circle cx="462.7" cy="240.9" r="2.4" fill="#4E6B2A"/><circle cx="309.6" cy="234.1" r="2.7" fill="#4E6B2A"/><circle cx="425.8" cy="232.5" r="1.2" fill="#4E6B2A"/><circle cx="344.3" cy="248.6" r="2.2" fill="#A9B86A"/><circle cx="426.7" cy="215.5" r="1" fill="#4E6B2A"/><circle cx="379.5" cy="250.3" r="2.7" fill="#5C7A33"/><circle cx="401.7" cy="233.6" r="1" fill="#5C7A33"/><circle cx="408.1" cy="243" r="1.3" fill="#5C7A33"/><circle cx="384.2" cy="234.8" r="3" fill="#4E6B2A"/><circle cx="377.9" cy="243.5" r="3.2" fill="#4E6B2A"/><circle cx="350.6" cy="234.8" r="1.6" fill="#7C9A45"/><circle cx="367.3" cy="254.6" r="1.8" fill="#7C9A45"/><circle cx="400" cy="241.7" r="2.6" fill="#5C7A33"/><circle cx="428" cy="254.2" r="1.1" fill="#4E6B2A"/><circle cx="362.2" cy="242.6" r="2.8" fill="#4E6B2A"/><circle cx="361.4" cy="240.4" r="3.1" fill="#5C7A33"/><circle cx="398.4" cy="255.7" r="2.6" fill="#5C7A33"/><circle cx="400.2" cy="249.1" r="1.8" fill="#7C9A45"/><circle cx="405.2" cy="231" r="2.7" fill="#A9B86A"/><circle cx="444.3" cy="226.9" r="1.1" fill="#A9B86A"/><circle cx="474.4" cy="214.7" r="1.3" fill="#A9B86A"/><circle cx="405.1" cy="224.8" r="1.9" fill="#5C7A33"/><circle cx="408.9" cy="249.5" r="1.6" fill="#4E6B2A"/><circle cx="352.3" cy="220.9" r="3" fill="#4E6B2A"/><circle cx="356.2" cy="253.2" r="3.2" fill="#7C9A45"/><circle cx="317.4" cy="249.5" r="2.5" fill="#5C7A33"/><circle cx="366.6" cy="238.4" r="2.8" fill="#7C9A45"/><circle cx="453.3" cy="257.2" r="1.7" fill="#4E6B2A"/><circle cx="416.4" cy="223.1" r="1.6" fill="#4E6B2A"/><circle cx="439.3" cy="217.9" r="2.8" fill="#4E6B2A"/><circle cx="319" cy="253.5" r="2.9" fill="#A9B86A"/><circle cx="374.6" cy="222.3" r="1.4" fill="#7C9A45"/><circle cx="429.4" cy="239.4" r="1.8" fill="#7C9A45"/><circle cx="306.9" cy="235.7" r="2.9" fill="#A9B86A"/><circle cx="415.3" cy="220.9" r="2.3" fill="#A9B86A"/><circle cx="328.7" cy="218.1" r="1.5" fill="#5C7A33"/><circle cx="392" cy="254.7" r="1.6" fill="#4E6B2A"/><circle cx="497.3" cy="250" r="3.1" fill="#A9B86A"/><circle cx="440" cy="257.8" r="1.8" fill="#4E6B2A"/><circle cx="279.4" cy="252.3" r="2" fill="#4E6B2A"/><circle cx="467.1" cy="254.6" r="2.6" fill="#4E6B2A"/><circle cx="325.3" cy="242.2" r="3.1" fill="#5C7A33"/><circle cx="292.2" cy="230.3" r="1.5" fill="#7C9A45"/><circle cx="284.5" cy="255.4" r="1.1" fill="#4E6B2A"/><circle cx="401.9" cy="248.6" r="2.6" fill="#5C7A33"/><circle cx="329.3" cy="247.2" r="3.1" fill="#A9B86A"/><circle cx="397.9" cy="242.7" r="2" fill="#A9B86A"/><circle cx="354.3" cy="235.2" r="1.4" fill="#7C9A45"/><circle cx="468.2" cy="253.3" r="2" fill="#7C9A45"/><circle cx="415.5" cy="250.6" r="1.2" fill="#A9B86A"/><circle cx="423.6" cy="233.7" r="1.2" fill="#5C7A33"/><circle cx="461.4" cy="233.9" r="1.7" fill="#7C9A45"/><circle cx="374.7" cy="220.3" r="1.5" fill="#4E6B2A"/><circle cx="315.6" cy="253.1" r="2" fill="#7C9A45"/><circle cx="335" cy="220.9" r="1.6" fill="#A9B86A"/><circle cx="359.7" cy="235.6" r="1.7" fill="#5C7A33"/><circle cx="265.5" cy="216.5" r="3" fill="#7C9A45"/><circle cx="396.4" cy="219.2" r="2.7" fill="#A9B86A"/><circle cx="369.6" cy="224.5" r="1.5" fill="#5C7A33"/><circle cx="320.2" cy="216.5" r="2.6" fill="#A9B86A"/><circle cx="294.7" cy="233.5" r="2.1" fill="#7C9A45"/><circle cx="364.8" cy="255.5" r="1.6" fill="#A9B86A"/><circle cx="361.4" cy="223.6" r="2.3" fill="#7C9A45"/><circle cx="454.4" cy="224.1" r="1.4" fill="#4E6B2A"/><circle cx="473.1" cy="246.2" r="2.7" fill="#7C9A45"/><circle cx="311" cy="245.1" r="2.8" fill="#A9B86A"/><circle cx="357.1" cy="246.2" r="1.9" fill="#4E6B2A"/><circle cx="383.3" cy="226.4" r="2.4" fill="#5C7A33"/><circle cx="301.4" cy="247.6" r="1.3" fill="#A9B86A"/><circle cx="323.3" cy="257.4" r="1.1" fill="#A9B86A"/><circle cx="400.8" cy="229.7" r="3.1" fill="#4E6B2A"/><circle cx="283.8" cy="249.9" r="2.9" fill="#A9B86A"/><circle cx="458" cy="239.4" r="3" fill="#A9B86A"/><circle cx="489.2" cy="235.8" r="2.1" fill="#7C9A45"/><circle cx="238.6" cy="223.8" r="1.4" fill="#4E6B2A"/><circle cx="337.9" cy="256" r="1" fill="#7C9A45"/><circle cx="314.5" cy="242" r="2" fill="#7C9A45"/><circle cx="399.5" cy="252.3" r="2.6" fill="#4E6B2A"/><circle cx="333.6" cy="239.8" r="2.7" fill="#4E6B2A"/><circle cx="307.8" cy="220" r="2.3" fill="#7C9A45"/><circle cx="299.9" cy="246.8" r="1.4" fill="#4E6B2A"/><circle cx="461.8" cy="232.5" r="2.8" fill="#4E6B2A"/><circle cx="349.6" cy="248.2" r="1.7" fill="#7C9A45"/><circle cx="465.9" cy="251.1" r="2.2" fill="#A9B86A"/><circle cx="467" cy="216.4" r="2.1" fill="#A9B86A"/><circle cx="331.1" cy="241.8" r="1.8" fill="#7C9A45"/><circle cx="295" cy="236.2" r="1" fill="#7C9A45"/><circle cx="365" cy="257.9" r="2" fill="#4E6B2A"/><circle cx="467.3" cy="252.9" r="1.1" fill="#A9B86A"/><circle cx="479" cy="241.6" r="2.8" fill="#4E6B2A"/><circle cx="398.2" cy="236.9" r="2" fill="#4E6B2A"/><circle cx="344.8" cy="242.5" r="1.3" fill="#A9B86A"/><circle cx="284.2" cy="255" r="2" fill="#7C9A45"/><circle cx="490.6" cy="239.4" r="1.6" fill="#4E6B2A"/><circle cx="418.6" cy="234" r="2.5" fill="#7C9A45"/><circle cx="400.2" cy="245.3" r="2" fill="#A9B86A"/><circle cx="403.2" cy="227.7" r="1.5" fill="#7C9A45"/></g>
-<clipPath id="mate-mouth-clip"><ellipse cx="380" cy="238" rx="156" ry="28" /></clipPath>
-
-<!-- Bombilla (alpaca), entra en la yerba -->
-<g>
-  <path d="M 440 250 L 540 72 Q 552 50 576 46 L 632 38" fill="none" stroke="#5E646D" stroke-width="17" stroke-linecap="round" stroke-linejoin="round" />
-  <path d="M 440 250 L 540 72 Q 552 50 576 46 L 632 38" fill="none" stroke="url(#mate-metal)" stroke-width="13" stroke-linecap="round" stroke-linejoin="round" />
-  <path d="M 458 214 L 537 76" fill="none" stroke="#FFFFFF" stroke-opacity="0.55" stroke-width="3" stroke-linecap="round" />
-  <!-- pico aplanado -->
-  <path d="M 616 32 L 644 28 Q 652 36 644 44 L 618 48 Z" fill="#9AA1AB" stroke="#5E646D" stroke-width="2" />
-  <!-- virola -->
-  <rect x="504" y="114" width="26" height="12" rx="3" transform="rotate(-61 517 120)" fill="#C9A44A" stroke="#7E6526" stroke-width="1.5" />
+<!-- Saltaduras del enlozado: hierro negro, borde blanco y un poco de óxido -->
+<path d="M 212.9 217.6 L 210.5 219.9 L 207.1 219.3 L 203.6 218.7 L 202.1 215.8 L 203.6 212.8 L 207.4 212.1 L 211.2 212.0 L 212.0 215.0 Z" transform="translate(208 216) scale(1.6) translate(-208 -216)" fill="#8C5A2E" opacity="0.35" filter="url(#m-soft)"/><path d="M 212.9 217.6 L 210.5 219.9 L 207.1 219.3 L 203.6 218.7 L 202.1 215.8 L 203.6 212.8 L 207.4 212.1 L 211.2 212.0 L 212.0 215.0 Z" transform="translate(208 216) scale(1.22) translate(-208 -216)" fill="#F7F1E2" opacity="0.9"/><path d="M 212.9 217.6 L 210.5 219.9 L 207.1 219.3 L 203.6 218.7 L 202.1 215.8 L 203.6 212.8 L 207.4 212.1 L 211.2 212.0 L 212.0 215.0 Z" fill="#26201B"/><path d="M 212.9 217.6 L 210.5 219.9 L 207.1 219.3 L 203.6 218.7 L 202.1 215.8 L 203.6 212.8 L 207.4 212.1 L 211.2 212.0 L 212.0 215.0 Z" transform="translate(209.05 216.7) scale(0.5) translate(-208 -216)" fill="#6E3A1C" opacity="0.8"/>
+<path d="M 479.7 245.6 L 477.3 245.5 L 474.8 244.9 L 474.9 242.9 L 475.8 241.3 L 477.5 240.0 L 480.0 240.6 L 482.3 242.0 L 482.0 244.4 Z" transform="translate(478 243) scale(1.6) translate(-478 -243)" fill="#8C5A2E" opacity="0.35" filter="url(#m-soft)"/><path d="M 479.7 245.6 L 477.3 245.5 L 474.8 244.9 L 474.9 242.9 L 475.8 241.3 L 477.5 240.0 L 480.0 240.6 L 482.3 242.0 L 482.0 244.4 Z" transform="translate(478 243) scale(1.22) translate(-478 -243)" fill="#F7F1E2" opacity="0.9"/><path d="M 479.7 245.6 L 477.3 245.5 L 474.8 244.9 L 474.9 242.9 L 475.8 241.3 L 477.5 240.0 L 480.0 240.6 L 482.3 242.0 L 482.0 244.4 Z" fill="#26201B"/><path d="M 479.7 245.6 L 477.3 245.5 L 474.8 244.9 L 474.9 242.9 L 475.8 241.3 L 477.5 240.0 L 480.0 240.6 L 482.3 242.0 L 482.0 244.4 Z" transform="translate(478.75 243.5) scale(0.5) translate(-478 -243)" fill="#6E3A1C" opacity="0.8"/>
+<g clip-path="url(#m-body-clip)"><path d="M 547.7 540.9 L 545.5 543.5 L 541.9 544.6 L 537.9 543.7 L 537.3 540.6 L 538.1 538.1 L 539.9 535.0 L 543.5 537.0 L 547.1 537.8 Z" transform="translate(542 540) scale(1.6) translate(-542 -540)" fill="#8C5A2E" opacity="0.35" filter="url(#m-soft)"/><path d="M 547.7 540.9 L 545.5 543.5 L 541.9 544.6 L 537.9 543.7 L 537.3 540.6 L 538.1 538.1 L 539.9 535.0 L 543.5 537.0 L 547.1 537.8 Z" transform="translate(542 540) scale(1.22) translate(-542 -540)" fill="#F7F1E2" opacity="0.9"/><path d="M 547.7 540.9 L 545.5 543.5 L 541.9 544.6 L 537.9 543.7 L 537.3 540.6 L 538.1 538.1 L 539.9 535.0 L 543.5 537.0 L 547.1 537.8 Z" fill="#26201B"/><path d="M 547.7 540.9 L 545.5 543.5 L 541.9 544.6 L 537.9 543.7 L 537.3 540.6 L 538.1 538.1 L 539.9 535.0 L 543.5 537.0 L 547.1 537.8 Z" transform="translate(542.9 540.6) scale(0.5) translate(-542 -540)" fill="#6E3A1C" opacity="0.8"/>
+<path d="M 238.1 641.4 L 237.2 639.1 L 235.1 637.0 L 237.0 634.6 L 240.4 634.4 L 243.4 635.2 L 245.0 637.6 L 242.8 639.5 L 241.1 641.3 Z" transform="translate(240 638) scale(1.6) translate(-240 -638)" fill="#8C5A2E" opacity="0.35" filter="url(#m-soft)"/><path d="M 238.1 641.4 L 237.2 639.1 L 235.1 637.0 L 237.0 634.6 L 240.4 634.4 L 243.4 635.2 L 245.0 637.6 L 242.8 639.5 L 241.1 641.3 Z" transform="translate(240 638) scale(1.22) translate(-240 -638)" fill="#F7F1E2" opacity="0.9"/><path d="M 238.1 641.4 L 237.2 639.1 L 235.1 637.0 L 237.0 634.6 L 240.4 634.4 L 243.4 635.2 L 245.0 637.6 L 242.8 639.5 L 241.1 641.3 Z" fill="#26201B"/><path d="M 238.1 641.4 L 237.2 639.1 L 235.1 637.0 L 237.0 634.6 L 240.4 634.4 L 243.4 635.2 L 245.0 637.6 L 242.8 639.5 L 241.1 641.3 Z" transform="translate(240.75 638.5) scale(0.5) translate(-240 -638)" fill="#6E3A1C" opacity="0.8"/>
+<path d="M 432.6 657.8 L 430.7 659.2 L 428.0 658.8 L 426.2 657.1 L 426.6 655.0 L 427.9 653.1 L 430.7 653.0 L 432.9 654.1 L 432.9 656.0 Z" transform="translate(430 656) scale(1.6) translate(-430 -656)" fill="#8C5A2E" opacity="0.35" filter="url(#m-soft)"/><path d="M 432.6 657.8 L 430.7 659.2 L 428.0 658.8 L 426.2 657.1 L 426.6 655.0 L 427.9 653.1 L 430.7 653.0 L 432.9 654.1 L 432.9 656.0 Z" transform="translate(430 656) scale(1.22) translate(-430 -656)" fill="#F7F1E2" opacity="0.9"/><path d="M 432.6 657.8 L 430.7 659.2 L 428.0 658.8 L 426.2 657.1 L 426.6 655.0 L 427.9 653.1 L 430.7 653.0 L 432.9 654.1 L 432.9 656.0 Z" fill="#26201B"/><path d="M 432.6 657.8 L 430.7 659.2 L 428.0 658.8 L 426.2 657.1 L 426.6 655.0 L 427.9 653.1 L 430.7 653.0 L 432.9 654.1 L 432.9 656.0 Z" transform="translate(430.6 656.4) scale(0.5) translate(-430 -656)" fill="#6E3A1C" opacity="0.8"/></g>
 </g>
-
-<!-- Labio del borde (azul esmaltado, por delante de la bombilla) -->
-<ellipse cx="380" cy="236" rx="166" ry="34" fill="none" stroke="#1E2B47" stroke-width="13" />
-<path d="M 228 248 Q 380 286 532 248" fill="none" stroke="#3D5280" stroke-opacity="0.6" stroke-width="3" />
-
-<!-- Calcomanía: Patricio y la frase en arco -->
-<image href="fondo/assets/patricio-estrella.webp" x="268" y="394" width="224" height="212" />
-<text class="mate-phrase"><textPath href="#mate-arc" startOffset="50%">sensible a la perturbación</textPath></text>
-
-<!-- Saltaduras del enlozado -->
-<g clip-path="url(#mate-body-clip)"><path d="M220 300Q220 300 219.9 301.5Q219.8 303 217.5 304.1Q215.2 305.1 213.4 304.2Q211.7 303.3 210.7 302.2Q209.7 301.2 209.6 300.1Q209.6 299 210.2 296.9Q210.8 294.8 212.8 295.7Q214.9 296.6 217.3 296Q219.7 295.3 219.8 297.7Z" fill="#7A5634" opacity="0.55"/><path d="M218.4 300Q218.4 300 218.4 301.1Q218.3 302.2 216.6 303Q214.9 303.7 213.7 302.7Q212.4 301.8 211.5 301.5Q210.6 301.2 210.8 300.1Q210.9 299.1 211.3 298Q211.7 297 213.2 297.2Q214.8 297.3 215.5 298Q216.2 298.7 217.3 299.4Z" fill="#2A2622"/><path d="M535.7 262Q535.7 262 534.6 263.2Q533.4 264.4 532.1 264.9Q530.9 265.5 528.9 266.1Q526.9 266.7 526.5 264.9Q526.1 263.2 525.6 261.7Q525.1 260.3 526.1 259.3Q527 258.3 529.1 258Q531.2 257.6 532.4 258.4Q533.7 259.2 534.7 260.6Z" fill="#7A5634" opacity="0.55"/><path d="M532.4 262Q532.4 262 532 262.6Q531.6 263.2 531.1 264.1Q530.7 265.1 529.3 264.8Q528 264.5 527.3 263.8Q526.6 263 526.7 262.1Q526.9 261.1 527.5 259.9Q528 258.7 529.3 259Q530.5 259.4 531.1 260.1Q531.7 260.8 532 261.4Z" fill="#2A2622"/><path d="M572.6 640Q572.6 640 572.1 641.7Q571.6 643.4 569.3 644Q566.9 644.7 565.5 643.7Q564 642.7 562.9 641.8Q561.7 641 561.9 639.9Q562.1 638.7 563 638Q563.8 637.3 565.4 636.1Q567 634.9 568.1 636.4Q569.2 637.9 570.9 639Z" fill="#7A5634" opacity="0.55"/><path d="M569.8 640Q569.8 640 569.6 641.4Q569.5 642.7 568 642.5Q566.5 642.3 565.4 642.5Q564.3 642.7 562.9 641.9Q561.4 641.1 562.4 640.2Q563.3 639.3 563.9 638.6Q564.5 637.9 565.6 637.6Q566.7 637.3 567.3 638Q567.8 638.8 568.8 639.4Z" fill="#2A2622"/><path d="M240.6 672Q240.6 672 240.9 673.9Q241.2 675.8 239 676Q236.9 676.3 235 675.7Q233.1 675.1 231.5 674.6Q229.9 674 229.9 672Q229.9 670 231.8 669.4Q233.6 668.9 235.1 668.9Q236.6 668.9 237.7 669.7Q238.7 670.6 239.7 671.3Z" fill="#7A5634" opacity="0.55"/><path d="M238.5 672Q238.5 672 238.3 672.6Q238.1 673.1 237.3 673.2Q236.4 673.3 235.6 673.4Q234.9 673.5 234.4 673.1Q234 672.7 233.4 672Q232.8 671.2 233.7 670.8Q234.7 670.3 235.6 670.3Q236.5 670.2 237.8 669.8Q239 669.5 238.8 670.7Z" fill="#2A2622"/><path d="M754.1 452Q754.1 452 753.2 452.6Q752.3 453.2 751.5 453.9Q750.7 454.6 749 454.8Q747.4 455 747.4 454Q747.4 452.9 746.6 452Q745.9 451 746.9 450.4Q747.8 449.7 749.3 448.7Q750.8 447.8 752.4 448.4Q754.1 449 754.1 450.5Z" fill="#7A5634" opacity="0.55"/><path d="M752.2 452Q752.2 452 751.9 452.6Q751.5 453.2 751 453.8Q750.5 454.4 749.7 453.9Q748.8 453.4 747.9 453.2Q747 453.1 746.9 452Q746.9 451 747.6 450.2Q748.4 449.5 749.4 449.9Q750.4 450.3 751.1 450.7Q751.8 451.1 752 451.5Z" fill="#2A2622"/><path d="M152.8 520Q152.8 520 152.8 521Q152.7 522 151.8 523.1Q151 524.3 149.1 524.6Q147.2 524.8 146 523.1Q144.7 521.4 145.8 520.3Q146.8 519.2 147.6 518.6Q148.3 518 149.6 516.8Q150.8 515.6 152.4 516.5Q154 517.3 153.4 518.7Z" fill="#7A5634" opacity="0.55"/><path d="M152.9 520Q152.9 520 152.2 520.5Q151.4 521 151 522Q150.6 523.1 149.5 522.6Q148.4 522.1 148.3 521.4Q148.1 520.6 148 520Q147.8 519.3 148 518.5Q148.2 517.7 149.3 517.7Q150.4 517.6 151.4 518.2Q152.3 518.7 152.6 519.3Z" fill="#2A2622"/><path d="M455.1 700Q455.1 700 455.7 701.6Q456.2 703.2 454.4 703.1Q452.6 702.9 450.9 703.6Q449.2 704.3 448.8 702.7Q448.4 701.1 448.7 700.2Q449 699.3 449.1 697.6Q449.2 695.8 451 695.8Q452.8 695.8 453.9 696.7Q455.1 697.5 455.1 698.8Z" fill="#7A5634" opacity="0.55"/><path d="M455.2 700Q455.2 700 454.5 700.5Q453.7 701 453 701.4Q452.4 701.8 451.6 701.6Q450.9 701.5 450.5 701Q450.2 700.6 450 700Q449.8 699.4 450.2 698.5Q450.6 697.7 451.5 697.7Q452.4 697.6 453.2 698.1Q454 698.6 454.6 699.3Z" fill="#2A2622"/></g>
-
 </svg>

diff --git a/fondo.js b/fondo.js
@@ -75,7 +75,7 @@
         hintMany: "Faltan {n} palabras.",
         alt: {
           delantal: "Delantal de jean azul con la estrella Patricio estampada. Tiene tres palabras bordadas: voraz en el frente, vedette en la tira izquierda y del mar en la tira derecha. Usá los botones o el pellizco para acercarte.",
-          mate: "Mate enlozado antiguo, color crema con borde azul, con yerba y bombilla. En el medio, la estrella Patricio y arriba, en arco, la frase sensible a la perturbación. Usá los botones o el pellizco para acercarte."
+          mate: "Mate enlozado antiguo, color crema con borde azul. En el medio, la estrella Patricio y arriba, en arco, la frase sensible a la perturbación. Usá los botones o el pellizco para acercarte."
         }
       },
       thumbAlt: "Mockup de {obj} de {animal}",
@@ -127,7 +127,7 @@
         hintMany: "{n} words left.",
         alt: {
           delantal: "Blue denim apron with the Patricio starfish printed on it. It has three embroidered words: voraz on the front, vedette on the left strap and del mar on the right strap. Use the buttons or pinch to zoom in.",
-          mate: "Old enamel mate, cream with a blue rim, with yerba and a bombilla (metal straw). In the middle, the Patricio starfish and, above it in an arc, the phrase sensible a la perturbación (sensitive to disturbance). Use the buttons or pinch to zoom in."
+          mate: "Old enamel mate, cream with a blue rim. In the middle, the Patricio starfish and, above it in an arc, the phrase sensible a la perturbación (sensitive to disturbance). Use the buttons or pinch to zoom in."
         }
       },
       thumbAlt: "{animal} {obj} mockup",
@@ -163,7 +163,7 @@
         {
           id: "mate", es: "Mate", en: "Mate",
           kind: "zoom", thumb: "fondo/assets/thumbs/mate.webp",
-          svg: "fondo/assets/mate-svg.html", ratio: 800 / 760
+          svg: "fondo/assets/mate-svg.html", ratio: 620 / 560
         },
         { id: "postal", es: "Postal", en: "Postcard", kind: "postal", thumb: "fondo/assets/thumbs/postal-patricio.webp", file: "fondo/assets/postales/postal-patricio.png" }
       ]
